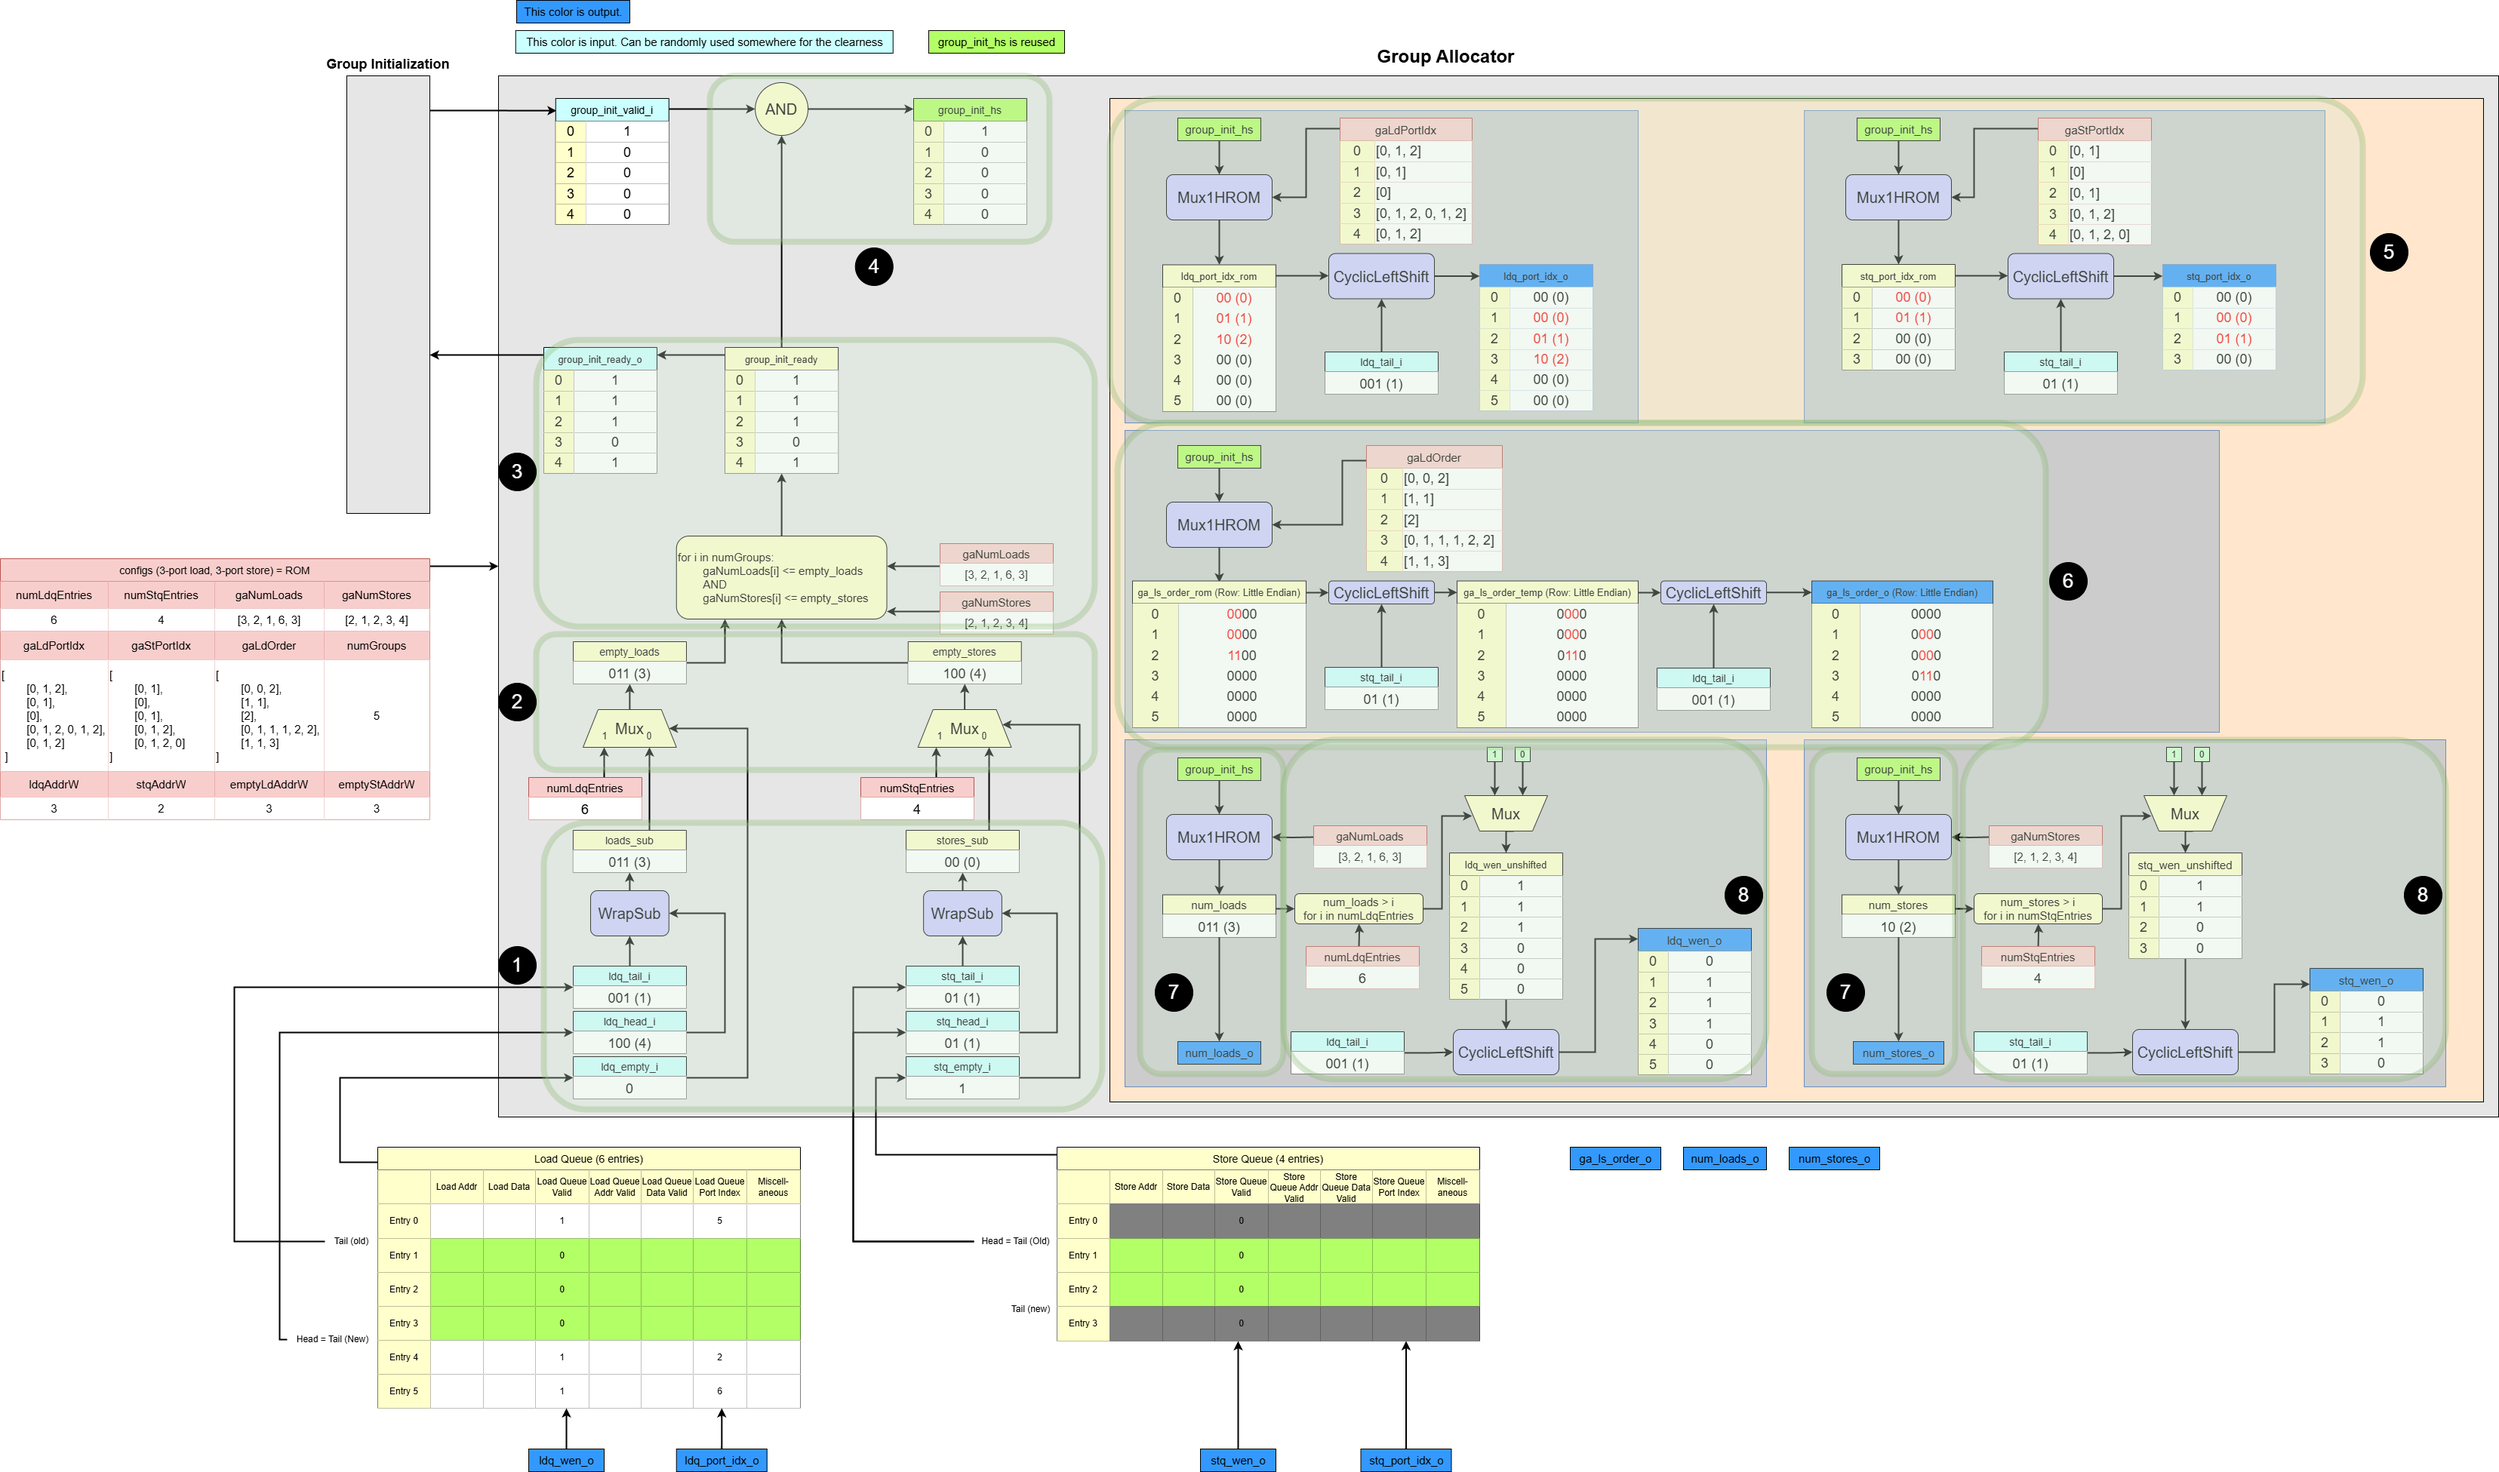
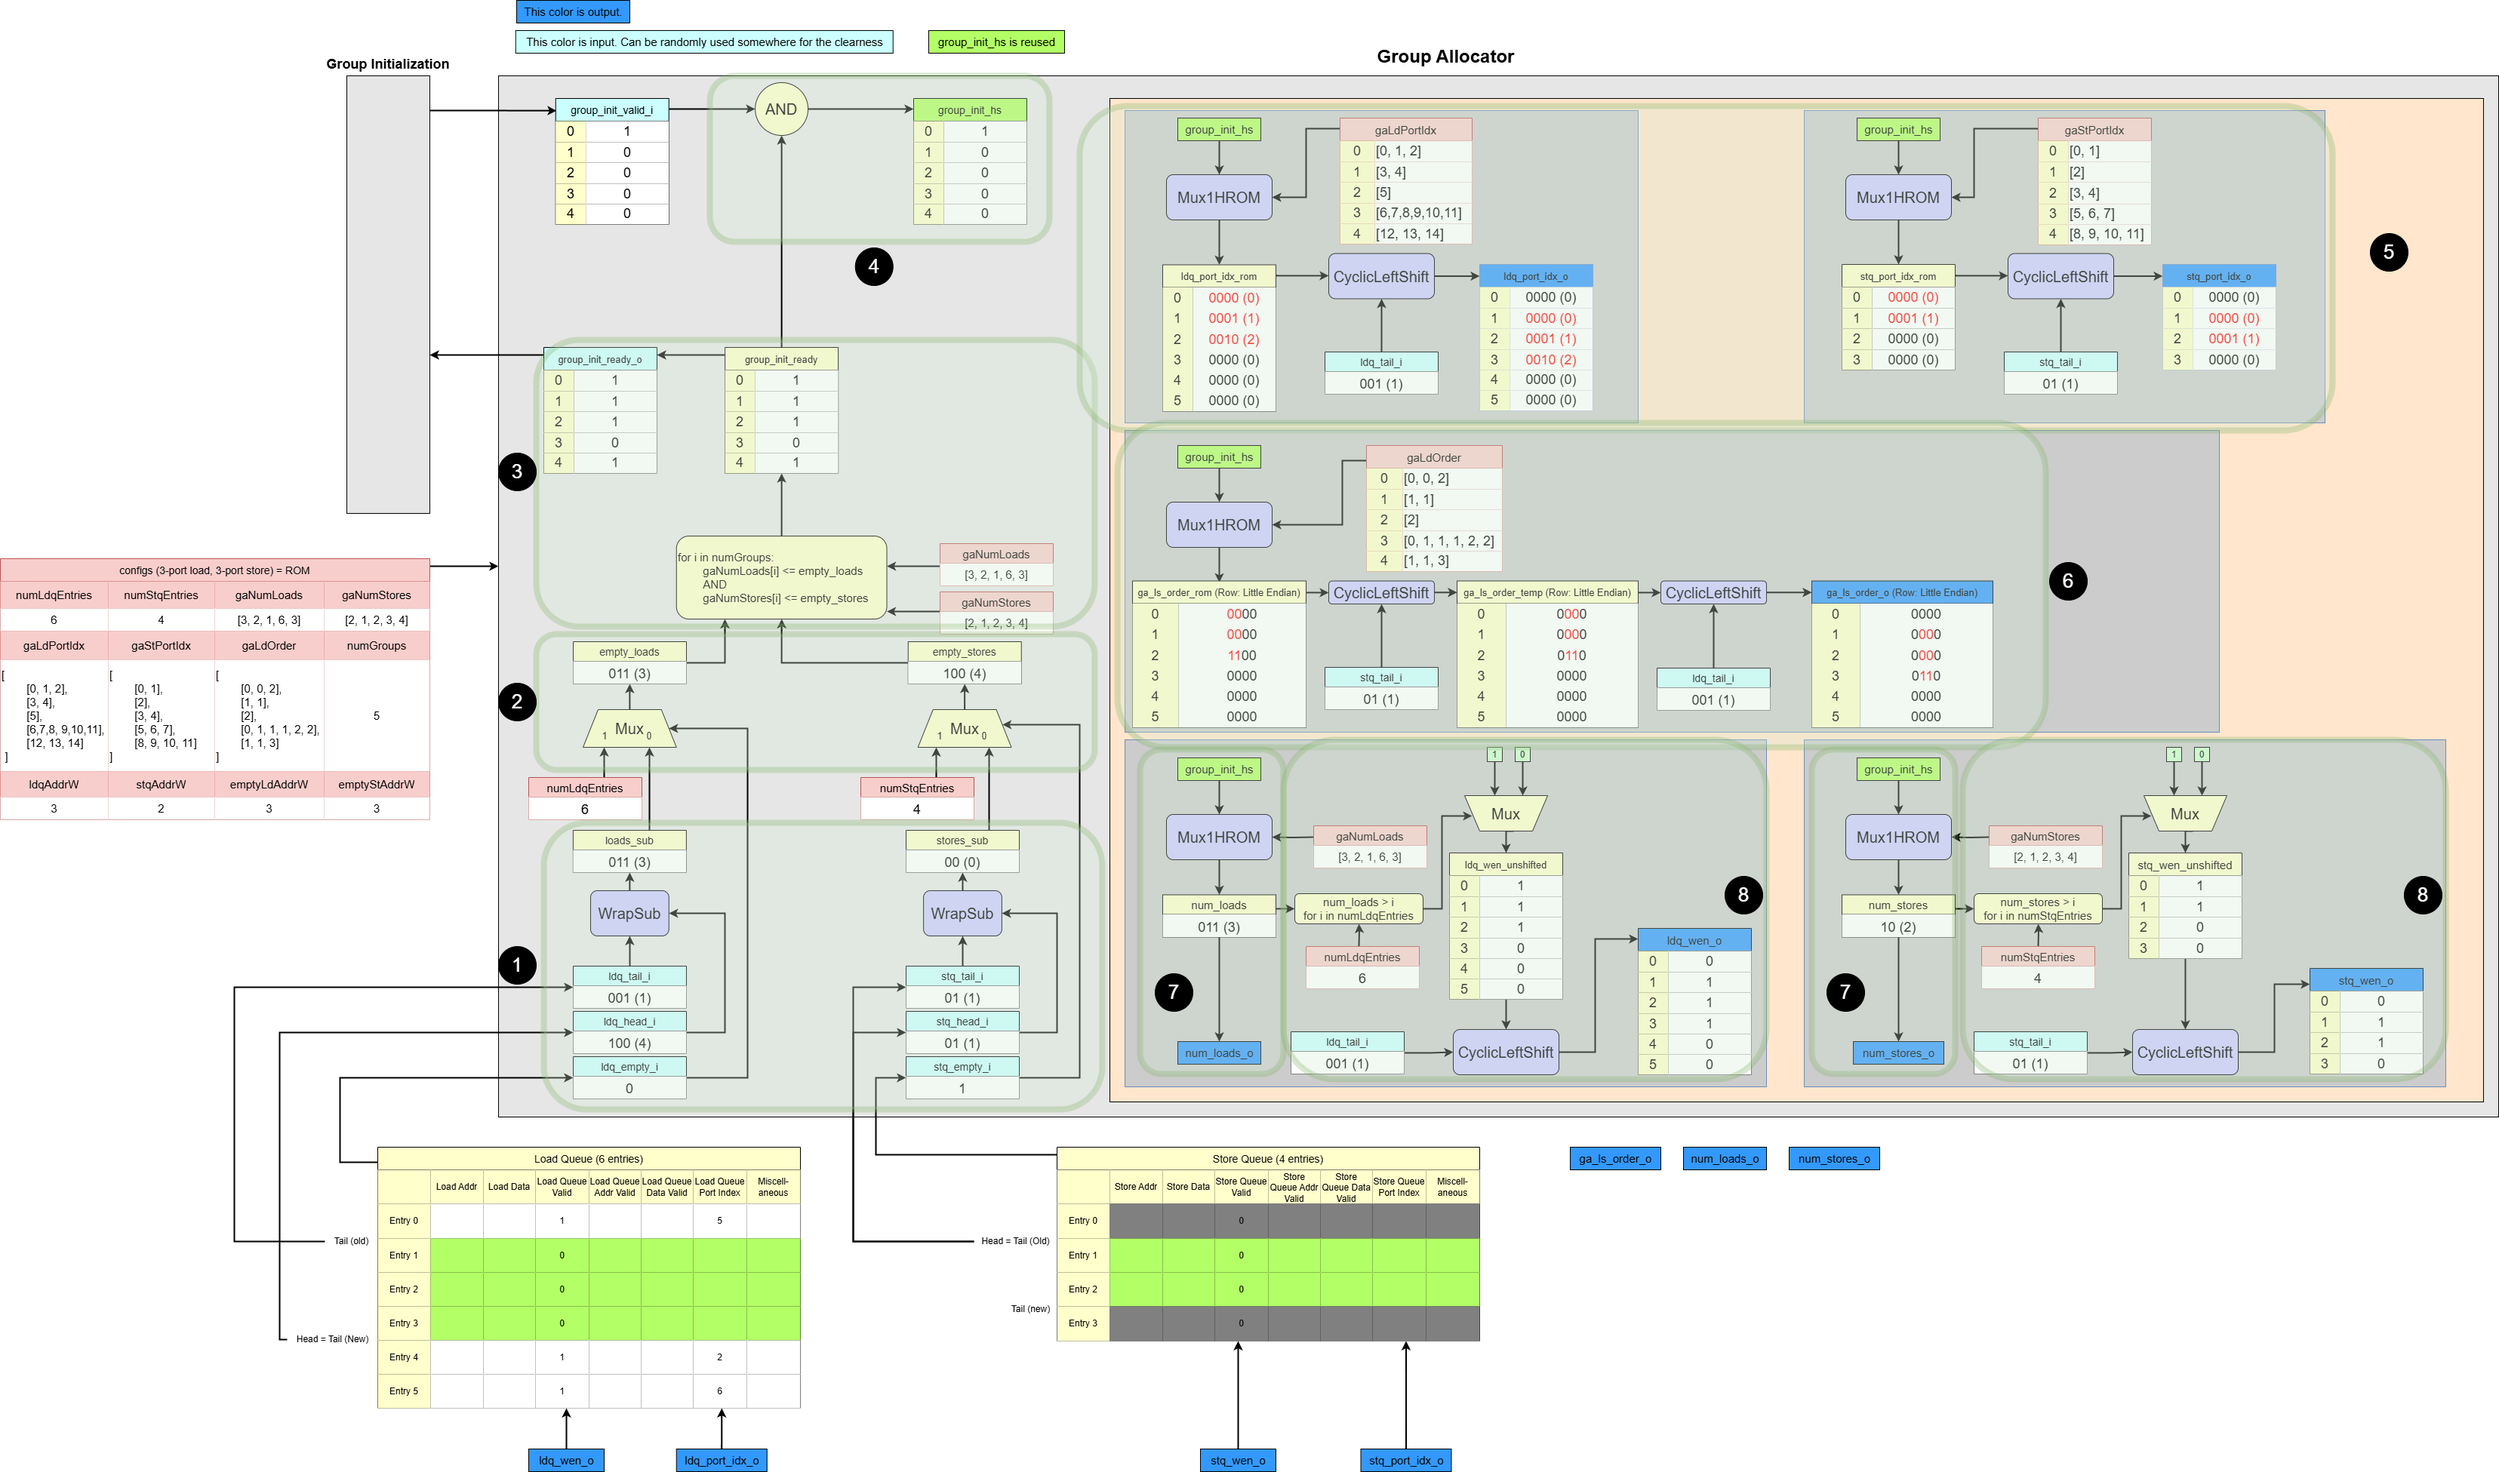
port error modification

diff --git a/docs/LSQ/GroupAllocator.md b/docs/LSQ/GroupAllocator.md
@@ -194,30 +194,30 @@ This block generates the correctly aligned port indices for the newly allocated 
 
 * **Load Port Index (`ldq_port_idx_o`):**
     1.  **ROM Lookup & Padding:** It fetches `gaLdPortIdx[0]`, which is `[0, 1, 2]`. This means that `load0_0` (Group0's 0th load), `load0_1` (Group0's 1st load), and `load0_2` (Group0's 2nd load) use `Port 0`, `Port 1`, and `Port 2` respectively. Since the load queue has 6 entries, this is padded to create the intermediate vector `ldq_port_idx_rom = [0, 1, 2, 0, 0, 0]`.
-    2.  **CyclicLeftShift:** This `[0, 1, 2, 0, 0, 0]` vector is then cyclically shifted left by the `ldq_tail` value, which is `1`. This means the first element (`0`) moves to the end, and all other elements shift left, resulting in **`[0, 0, 1, 2, 0, 0, 0]`**.
-    3. **Final Matrix Output (6x2)**: This result is converted into the final 6x2 matrix (`ldpAddrW=2`), where each number represents a 2-bit port index:
+    2.  **CyclicLeftShift:** This `[0, 1, 2, 0, 0, 0]` vector is then cyclically shifted left by the `ldq_tail` value, which is `1`. This means the first element (`0`) moves to the end, and all other elements shift left, resulting in **`[0, 0, 1, 2, 0, 0]`**.
+    3. **Final Matrix Output (6x4)**: This result is converted into the final 6x4 matrix (`ldpAddrW=4`), where each number represents a 2-bit port index:
 
       ldq_port_idx_o =
       [
-        "00", // Physical Entry 0
-        "00", // Physical Entry 1
-        "01", // Physical Entry 2
-        "10", // Physical Entry 3
-        "00", // Physical Entry 4
-        "00"  // Physical Entry 5
+        "0000", // Physical Entry 0
+        "0000", // Physical Entry 1
+        "0001", // Physical Entry 2
+        "0010", // Physical Entry 3
+        "0000", // Physical Entry 4
+        "0000"  // Physical Entry 5
       ]
 
 * **Store Port Index (`stq_port_idx_o`):**
     1.  **ROM Lookup & Padding:** It fetches `gaStPortIdx[0]`, which is `[0, 1]`. This is padded to the 4-entry store queue length to become `[0, 1, 0, 0]`.
     2.  **Cyclic Left Shift:** This `[0, 1, 0, 0]` vector is shifted left by the `stq_tail` value (`1`), resulting in **`[0, 0, 1, 0]`**.
-    3. **Final Matrix Output (4x2)**: This is converted into the final 4x2 matrix:
+    3. **Final Matrix Output (4x4)**: This is converted into the final 4x4 matrix:
 
       stq_port_idx_o =
       [
-        "00", // Physical Entry 0
-        "00", // Physical Entry 1
-        "01", // Physical Entry 2
-        "00"  // Physical Entry 3
+        "0000", // Physical Entry 0
+        "0000", // Physical Entry 1
+        "0001", // Physical Entry 2
+        "0000"  // Physical Entry 3
       ]
 
 
